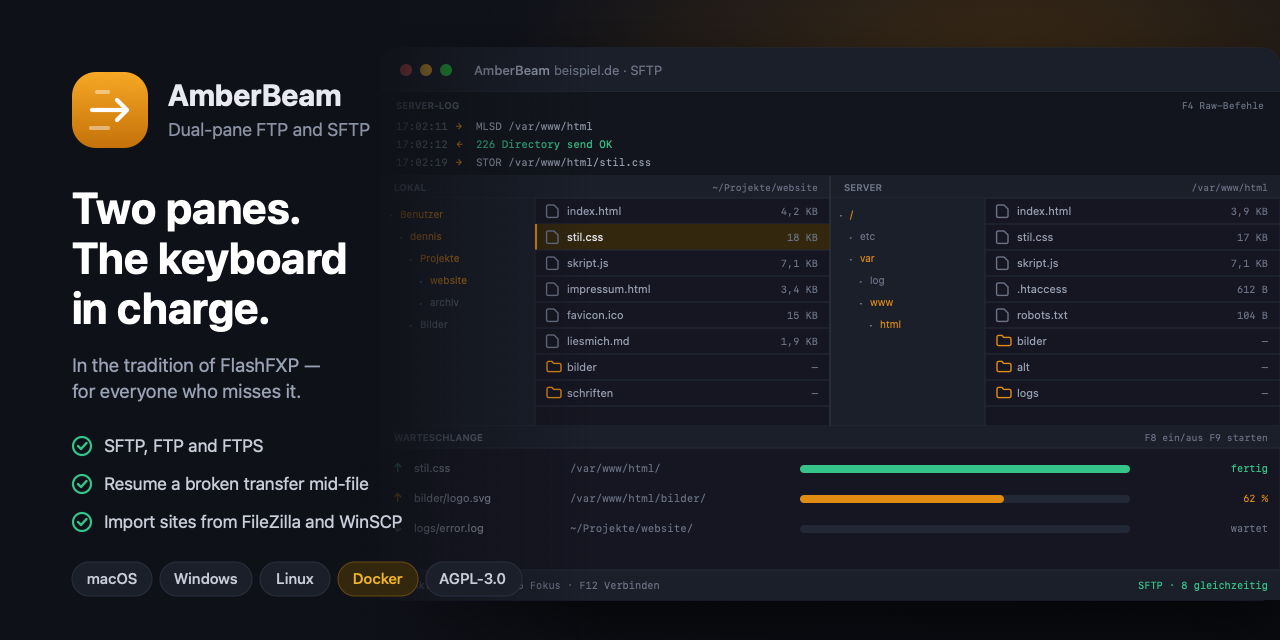
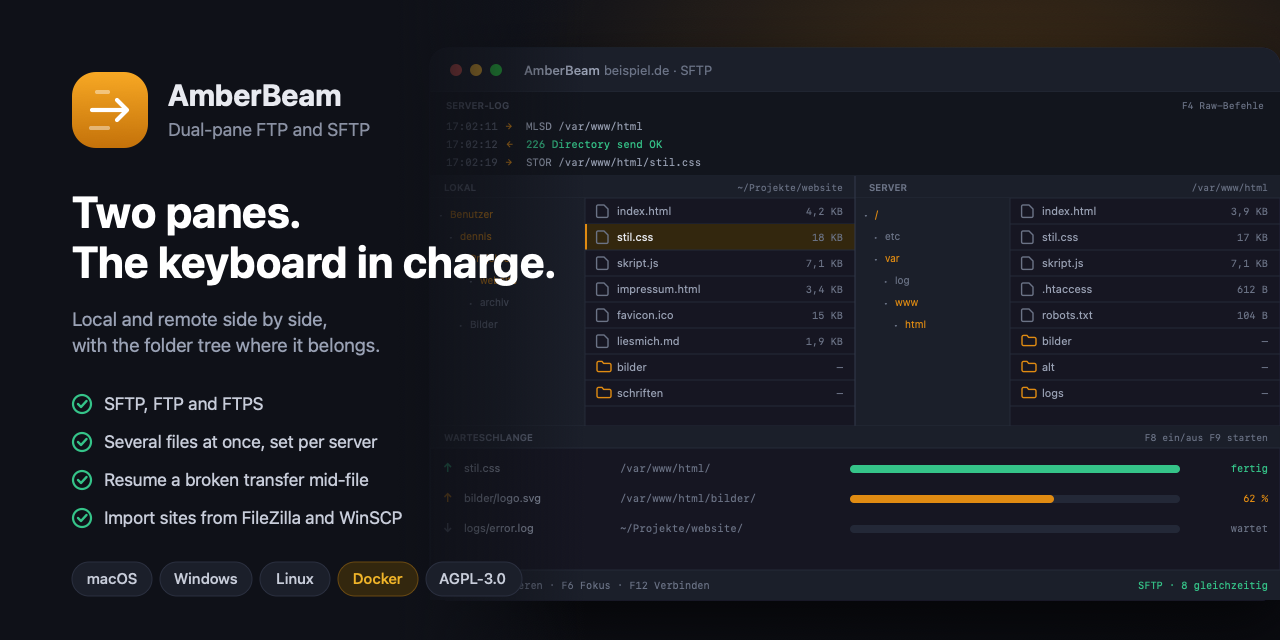
Say plainly that several files move at once, and that FXP does not
The queue moving several files at the same time is the thing a dual-pane user
looks for first, and it was buried in the word "concurrency". It now leads that
bullet, with the reason the default is four on FTP.

FXP gets its own line in the version 1 list instead of only appearing under
"later", so nobody installs this expecting server-to-server transfers that skip
the client.

The social card drops the FlashFXP line, puts "in charge" back on the keyboard
line, and gains the parallel transfer point.

diff --git a/dev/make-screenshots.py b/dev/make-screenshots.py
@@ -440,9 +440,9 @@ def social():
         # reads as depth rather than as two pictures on top of each other.
         '    <linearGradient id="scrim" x1="0" y1="0" x2="1" y2="0">\n'
         '      <stop offset="0" stop-color="#0f1118" stop-opacity="1"/>\n'
-        '      <stop offset="0.40" stop-color="#0f1118" stop-opacity="1"/>\n'
-        '      <stop offset="0.52" stop-color="#0f1118" stop-opacity="0.45"/>\n'
-        '      <stop offset="0.66" stop-color="#0f1118" stop-opacity="0"/>\n'
+        '      <stop offset="0.44" stop-color="#0f1118" stop-opacity="1"/>\n'
+        '      <stop offset="0.56" stop-color="#0f1118" stop-opacity="0.55"/>\n'
+        '      <stop offset="0.65" stop-color="#0f1118" stop-opacity="0"/>\n'
         "    </linearGradient>\n"
         '    <filter id="cardshadow" x="-30%" y="-30%" width="160%" height="160%">\n'
         '      <feDropShadow dx="0" dy="22" stdDeviation="34" flood-color="#000" '
@@ -455,7 +455,7 @@ def social():
     )
 
     # ---- the window, drawn first so the text column can lie over its edge
-    wx, wy, ww, wh = 380, 48, 900, 552
+    wx, wy, ww, wh = 430, 48, 850, 552
     half = ww // 2
     tree_w = 155
     out.append(
@@ -563,15 +563,15 @@ def social():
     )
     out.append(text(168, 106, "AmberBeam", TEXT, 30, "700"))
     out.append(text(168, 136, "Dual-pane FTP and SFTP", "#8a91a3", 18))
-    out.append(text(72, 224, "Two panes.", "#ffffff", 44, "700"))
-    out.append(text(72, 274, "The keyboard", "#ffffff", 44, "700"))
-    out.append(text(72, 324, "in charge.", "#ffffff", 44, "700"))
-    out.append(text(72, 372, "In the tradition of FlashFXP —", MUTED, 19))
-    out.append(text(72, 398, "for everyone who misses it.", MUTED, 19))
+    out.append(text(72, 228, "Two panes.", "#ffffff", 44, "700"))
+    out.append(text(72, 278, "The keyboard in charge.", "#ffffff", 44, "700"))
+    out.append(text(72, 326, "Local and remote side by side,", MUTED, 19))
+    out.append(text(72, 352, "with the folder tree where it belongs.", MUTED, 19))
 
-    out.append(tick(446, "SFTP, FTP and FTPS"))
-    out.append(tick(484, "Resume a broken transfer mid-file"))
-    out.append(tick(522, "Import sites from FileZilla and WinSCP"))
+    out.append(tick(404, "SFTP, FTP and FTPS"))
+    out.append(tick(442, "Several files at once, set per server"))
+    out.append(tick(480, "Resume a broken transfer mid-file"))
+    out.append(tick(518, "Import sites from FileZilla and WinSCP"))
 
     out.append(pill(72, 562, 80, "macOS", size=15))
     out.append(pill(160, 562, 92, "Windows", size=15))

diff --git a/README.de.md b/README.de.md
@@ -70,8 +70,13 @@ Fassung 1, wie festgelegt:
   Port 990 unterstützt, unverschlüsseltes FTP möglich, aber sichtbar markiert
 - **Zwei Bereiche mit je Ordnerbaum und Dateiliste.** Jede Seite kann lokal
   *oder* Server sein — zwei Server nebeneinander sind ausdrücklich erlaubt
-- **Warteschlange, die Programmneustarts übersteht**, mit Parallelität pro
-  Server (SFTP 8, FTP 4 voreingestellt, bis 64 einstellbar)
+- **Warteschlange, die Programmneustarts übersteht** und **mehrere Dateien
+  gleichzeitig** überträgt — wie viele, wird pro Server eingestellt (SFTP 8,
+  FTP 4 voreingestellt, bis 64), denn ein Webhoster, der vier Anmeldungen
+  erlaubt, weist die fünfte ab
+- **Kein FXP.** Eine Übertragung zwischen zwei Servern läuft über AmberBeam und
+  nicht direkt zwischen beiden. Die Architektur lässt die Tür offen, Fassung 1
+  geht nicht hindurch
 - **Fortsetzen einer einzelnen Datei, die mittendrin abgerissen ist** — nicht
   nur der Warteschlange. Größe und Zeitstempel der Quelle werden vorher
   verglichen; bei Abweichung wird gefragt, statt stillschweigend eine Datei aus
@@ -90,7 +95,8 @@ Fassung 1, wie festgelegt:
 - **Keine Cloud, keine Konten, keine Telemetrie**
 
 Später: Verzeichnisabgleich, Vergleich beider Seiten, entferntes Bearbeiten,
-zeitgesteuerte Aufträge, FXP, die Container-Fassung, S3 und WebDAV.
+zeitgesteuerte Aufträge, die Container-Fassung, S3 und WebDAV — und FXP, falls
+es sich seinen Platz je verdient.
 
 ## Die drei Nähte
 

diff --git a/README.md b/README.md
@@ -70,8 +70,12 @@ Version 1, as specified:
   supported, plain FTP possible but visibly marked
 - **Two panes, each with a folder tree and a file list.** Either side can be
   local *or* a server — two servers side by side are explicitly allowed
-- **Transfer queue** that survives a restart, with per-server concurrency
-  (SFTP 8, FTP 4 by default, adjustable up to 64)
+- **Transfer queue** that survives a restart, moving **several files at the same
+  time** — how many is set per server (SFTP 8, FTP 4 by default, up to 64),
+  because a shared hoster that allows four logins will refuse the fifth
+- **No FXP.** A transfer between two servers runs through AmberBeam, not
+  directly between the two. The architecture leaves that door open; version 1
+  does not walk through it
 - **Resuming a single file that broke in mid-transfer** — not just the queue.
   Size and timestamp of the source are compared first, and if they changed you
   are asked instead of silently handed a file stitched from two versions
@@ -87,7 +91,8 @@ Version 1, as specified:
 - **No cloud, no accounts, no telemetry**
 
 Later: directory synchronisation, comparing both sides, remote editing,
-scheduled jobs, FXP, the container build, S3 and WebDAV.
+scheduled jobs, the container build, S3 and WebDAV — and FXP if it ever earns
+its place.
 
 ## The three seams
 
